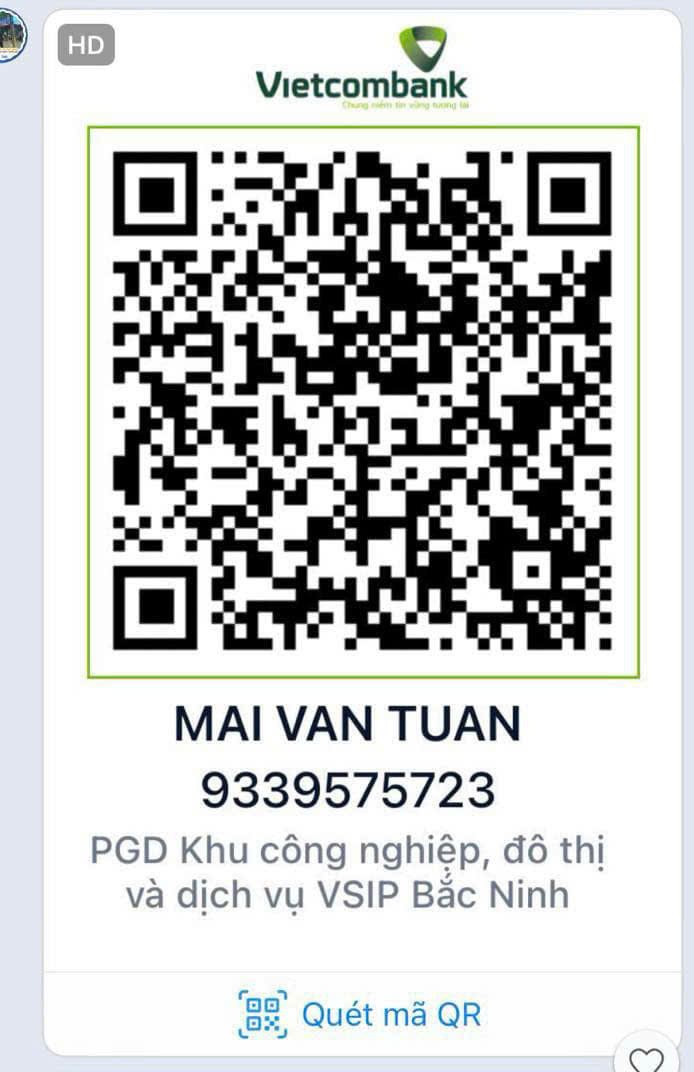
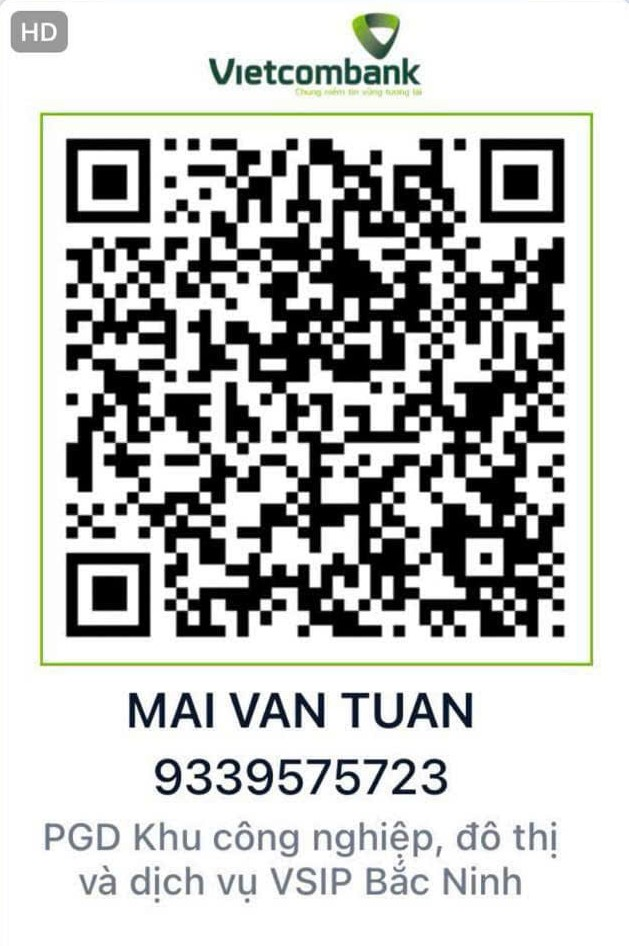
Update QR

diff --git a/index.html b/index.html
@@ -229,7 +229,7 @@ em {
           </div>
           <div class="banner-date mt-4 uk-text-center " data-aos="fade" data-aos-duration="3000">
             <p class=" mb-0 uk-text-bold text-primary-color">11/01/2025</p>
-            <p class="mb-0 text-black"> Lễ Thành Hôn tại <br> <small>Nhà Văn Hóa Xóm Giai</small></p>
+            <p class="mb-0 text-black"> Lễ Thành Hôn tại <br> <small>Thôn Đại Thượng, Xã Đại Đồng, Huyện Tiên Du, Tỉnh Bắc Ninh</small></p>
            
           </div>
           
@@ -248,11 +248,11 @@ em {
      <!-- ABOUT -->
      <section id="about" class="about uk-section uk-overflow-hidden bg-soft-primary text-black">
       <div class="uk-container uk-container-xlarge">
-        <div class="uk-grid uk-Thảold-width-1-2@m" uk-grid="">
+        <div class="uk-grid uk-child-width-1-2@m" uk-grid="">
           <div>
             <div class="about-item  uk-position-relative uk-padding-small">
               
-              <span data-aos="fade-left" class="uk-heading-small script-font text-primary-color d-flex">Chú Rể</span>
+              <span data-aos="fade-left" class="uk-heading-small script-font text-primary-color d-flex">The Groom</span>
               <div class="uk-cover-container uk-width-4-5" style="aspect-ratio: 1/1;" data-aos="fade-right">
                 <img src="images/3e2efe0f416afb34a27b.jpg" alt="">
               </div>
@@ -263,27 +263,31 @@ em {
                
                 <h3 class="mb-0 text-black"> Ông: <b>Mai Văn Chiêm</b> <br/>
                  Bà: <b>Nguyễn Thị Anh</b> </h3>             
-                             <!--    <i>Hạnh phúc nhất trên đời không phải là việc gặp được người tuyệt vời nhất ở những tháng ngày đẹp nhất. Mà là một người sẽ từ từ nhìn mình già đi, không cần ở những năm tháng đẹp nhất, mà là đúng người , đúng thời điểm, nắm tay nhau cùng đi. Anh rất hạnh phúc vì gặp được em- người con gái cho anh biết như thế nào là tình yêu, cùng anh về nhà em nhé.  </i> -->
+                                <!-- <i>Hạnh phúc nhất trên đời không phải là việc gặp được người tuyệt vời nhất ở những tháng ngày đẹp nhất. Mà là một người sẽ từ từ nhìn mình già đi, không cần ở những năm tháng đẹp nhất, mà là đúng người , đúng thời điểm, nắm tay nhau cùng đi. Anh rất hạnh phúc vì gặp được em- người con gái cho anh biết như thế nào là tình yêu, cùng anh về nhà em nhé.  </i> -->
               </div>
             </div>
           </div>
 
           <div>
-            <div class="about-item  uk-position-relative uk-padding-small">
-              <span class="uk-heading-small script-font text-primary-color d-block uk-text-right" data-aos="slide-left">Cô dâu</span>
-              <div class="uk-cover-container ms-auto uk-width-4-5" style="aspect-ratio: 1/1;" data-aos="fade-left">
+<div class="about-item  uk-position-relative uk-padding-small">
+              
+              <span data-aos="fade-left" class="uk-heading-small script-font text-primary-color d-flex">The Bride</span>
+              <div class="uk-cover-container uk-width-4-5" style="aspect-ratio: 1/1;" data-aos="fade-right">
                 <img src="images/818-269.jpg" alt="">
               </div>
-              <div class="uk-margin-top uk-text-right">
-                <h3 class="mb-0 text-black"><b>Thanh Thảo</b></h3>
-                <p class="title-font mb-1">( 30/10/2002)</p>                
-                               <!--  <i>Em - một cô gái nhạy cảm, tính cách thất thường, thật may măn khi gặp được anh. Cảm ơn anh luôn quan tâm, chăm sóc em thật nhiều, nuông Thảoều những khi em giận hờn vô cớ. Bắt đầu từ hôm nay chúng ta sẽ viết nên một chương mới của cuộc đời, bằng tình thương yêu và hạnh phúc đong đầy anh nhé!   </i> -->
-                               <h3 class="mb-0 text-black">Nhà Gái</h3>
+              <div class="uk-margin-top">
+                <h3 class="mb-0 text-black"> <b>Thanh Thảo</b></h3>
+                <p class="title-font mb-1">(30/10/2002))</p>   
+                <h3 class="mb-0 text-black">Nhà Gái</h3>
                
-                <h3 class="mb-0 text-black"> Ông: <b>Nguyễn Duy Thuỷ</b> <br/>
-                 Bà: <b>Nguyễn Thị Tứ</b> </h3>        
+             <h3 class="mb-0 text-black"> Ông: <b>Nguyễn Duy Thuỷ</b> <br/>
+                 Bà: <b>Nguyễn Thị Tứ</b> </h3>          
+                             <!--    <i>Hạnh phúc nhất trên đời không phải là việc gặp được người tuyệt vời nhất ở những tháng ngày đẹp nhất. Mà là một người sẽ từ từ nhìn mình già đi, không cần ở những năm tháng đẹp nhất, mà là đúng người , đúng thời điểm, nắm tay nhau cùng đi. Anh rất hạnh phúc vì gặp được em- người con gái cho anh biết như thế nào là tình yêu, cùng anh về nhà em nhé.  </i> -->
               </div>
             </div>
+          </div>
+
+          
           </div>
         </div>
       </div>
@@ -528,8 +532,8 @@ em {
                       <div class="invitation-date uk-text-center mt-4 text-black uk-position-relative">
                         
                         <p class="mb-0 script-font">Tổ chức vào lúc</p>
-                        <p class="mb-2 uk-text-bold text-primary-color uk-heading-small">10:30</p>
-                        <span class="border-bottom title-font text-black">Chủ Nhật</span>
+                        <p class="mb-2 uk-text-bold text-primary-color uk-heading-small">17:00</p>
+                        <span class="border-bottom title-font text-black">Thứ 6</span>
                         
                         <div class="uk-grid uk-flex-center uk-flex-middle title-font" uk-grid="">
                           <div class="uk-width-1-3 uk-text-right  text-black">
@@ -878,7 +882,7 @@ em {
           <div class="uk-grid uk-Thảold-width-1-2@m" uk-grid="">
             <div>
               <div class="gift-groom uk-text-center uk-card-default uk-padding-small">
-                <p><img fetchpriority="high" decoding="async" class="alignnone size-medium wp-image-2119" src="images/38b26f508c35366b6f24.jpg" alt="" width="300" height="225"  sizes="(max-width: 300px) 100vw, 300px"></p>
+                <p><img fetchpriority="high" decoding="async" class="alignnone size-medium wp-image-2119" src="images/18dfc6f74ab1f6efafa01.jpg" alt="" width="300" height="225"  sizes="(max-width: 300px) 100vw, 300px"></p>
 <p><strong>Văn Tuấn</strong></p>
 <p>Ngân hàng : <strong>VietCombank</strong></p>
 <!-- <p>STK : <strong>123456789</strong></p> -->
@@ -886,7 +890,7 @@ em {
             </div>
             <div>
               <div class="gift-bride uk-text-center uk-card-default uk-padding-small">
-                <p><img decoding="async" class="alignnone size-medium wp-image-2119" src="images/a17882c06ea5d4fb8db4.jpg" alt="" width="300" height="225"  sizes="(max-width: 300px) 100vw, 300px"></p>
+                <p><img decoding="async" class="alignnone size-medium wp-image-2119" src="images/QR-300x225.webp" alt="" width="300" height="225"  sizes="(max-width: 300px) 100vw, 300px"></p>
 <p><strong>Thanh Thảo</strong></p>
 <p>Ngân hàng : <strong>VPBank</strong></p>
 <!-- <p>STK :<strong> 0935653555</strong></p> -->
@@ -903,7 +907,7 @@ em {
   <!-- THANKYOU -->
   <section id="thankyou" class="thankyou uk-position-relative bg-soft-primary" uk-height-viewport="">
     <div class="uk-position-cover uk-cover-container">
-      <img src="images/818-265-1.jpg" alt="" uk-cover="" class="uk-blend-overlay">
+      <!-- <img src="images/818-265-1.jpg" alt="" uk-cover="" class="uk-blend-overlay"> -->
     </div>
     <div class="uk-position-top-left">
       <img src="images/left-top.png" alt="" class="uk-width-1-2">
@@ -917,7 +921,12 @@ em {
           <h2 class="title-font uk-heading-large text-black">
            Thank you!          </h2>
           <div class="text-black">
-            <p>Sự hiện diện của quý vị là niềm vui và vinh hạnh cho gia đình chúng tôi. Chân thành cám ơn!</p>
+            <p class="">Sự hiện diện của quý vị là niềm vui và vinh hạnh cho gia đình chúng tôi. 
+Cảm ơn mọi người vì đã trở thành một phần quan trọng trong ngày vui trọng đại này !!</p>
+
+ <a href="#modal-gift" class="btn-icon uk-icon-link uk-position-relative bg-primary-color" uk-tooltip="Gửi quà cho cặp đôi" uk-toggle="">
+      <i class="ri-gift-2-fill text-white uk-text-large"></i>
+    </a>
           </div>
       </div>
     </div>
